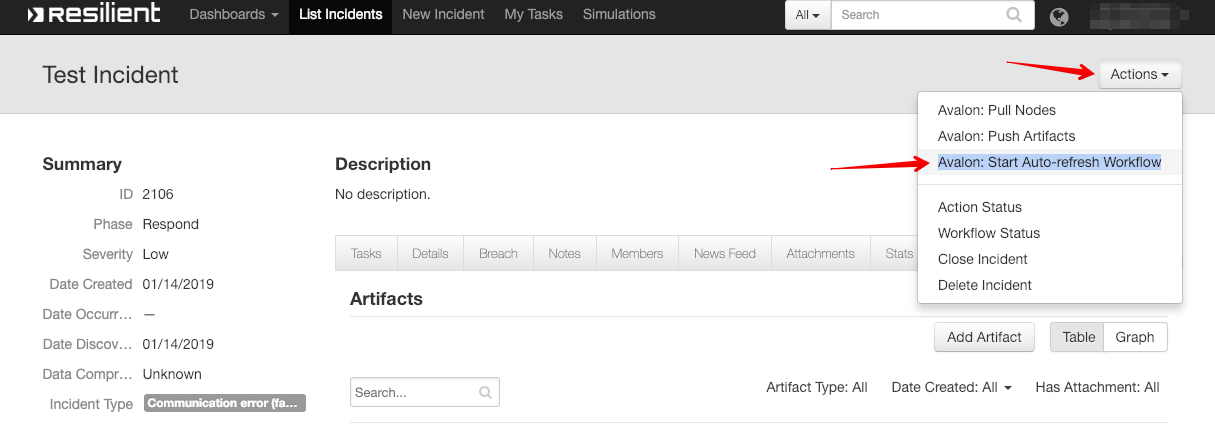
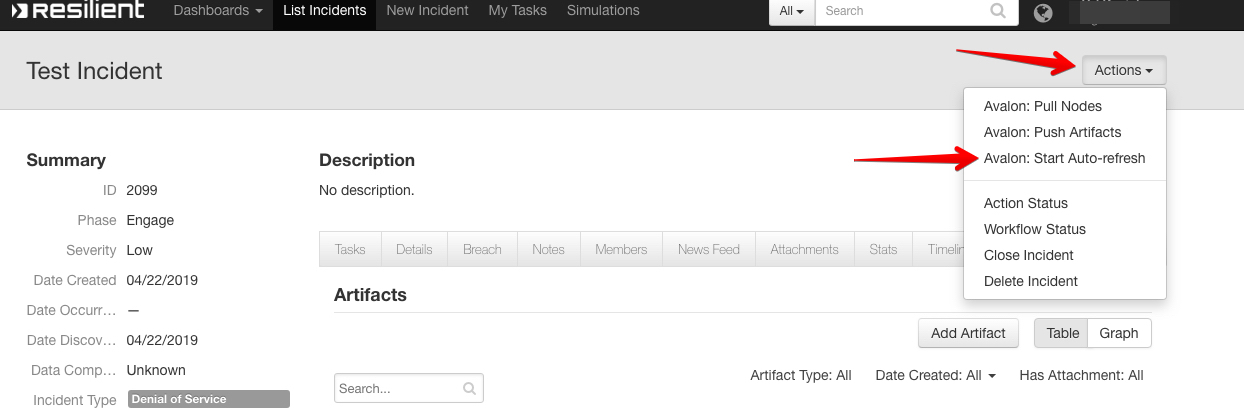
update tutorial

diff --git a/doc/tutorial.md b/doc/tutorial.md
@@ -30,7 +30,7 @@ Check the Action Status in IBM Resilient:
 
 Action Status should be `Completed` and information should say `Avalon workspace created successfully.`:
 ![create-workspace](./screenshots/07-action-status-result.jpg)
-   
+
 
 Login to Avalon. You should see a new workspace with the name `Test Incident (IBM Resilient)`: 
 
@@ -53,7 +53,7 @@ Click on canvas. Enter `attacker.com`. Click Save:
 Avalon will find a few relationships to the new node. Click `Workspace`. Then click `+ ADD ALL`.
 
 ![create-workspace](./screenshots/11-add-relationships.jpg)
-  
+
 Avalon should add more nodes to the workspace:
 
 ![create-workspace](./screenshots/12-relationships.jpg)
@@ -101,22 +101,20 @@ In Avalon, verify that a new `gogl.com` node has been added to the workspace:
 
 ## 6. Schedule automatic resfresh (optional)
 
-### Start auto-refresh workflow
+### Start auto-refresh
 
-To start an IBM Resilient workflow that pulls the Avalon nodes automatically every 60 minutes select `Avalon: Start Auto-refresh Workflow` from the `Actions` menu:
+To start an IBM Resilient workflow that pulls the Avalon nodes automatically every 60 minutes select `Avalon: Start Auto-refresh` from the `Actions` menu:
 
 ![create-workspace](./screenshots/19-start-auto-refresh.jpg)     
 
-### Verify that workflow is running
+To stop the auto-refresh process, from the `Actions` menu select `Avalon: Stop Auto-refresh`. 
 
-In the incident, select `Actions` then `Workflow Status`: 
+### Change auto-refresh time
 
-![create-workspace](./screenshots/20-workflow-status.jpg)
+Open the `Avalon` tab and click `Edit`. 
 
-You should see `Avalon: Refresh` running:
+![change-auto-refresh-time](./screenshots/20-change-auto-refresh-time-1.jpg)
 
-![create-workspace](./screenshots/21-workflow.jpg)
+Enter number of minutes in the `Avalon: Auto Refresh Time`  field. Click `Save`. 
 
-To stop the auto-refresh workflow, from the `Actions` menu select `Avalon: Stop Auto-refresh Workflow`. 
-
-> IMPORTANT: Always use the `Avalon: Stop Auto-refresh Workflow` menu to terminate a running workflow! **Do not terminate an auto-refresh workflow from the `Workflow Status` screen!** 
+> NOTE: If you do not see the Avalon tab please contact your system adminstrator. Your system adminstrator can customize the incident layout to add the Avalon tab andthe  Avalon custom fields.  
